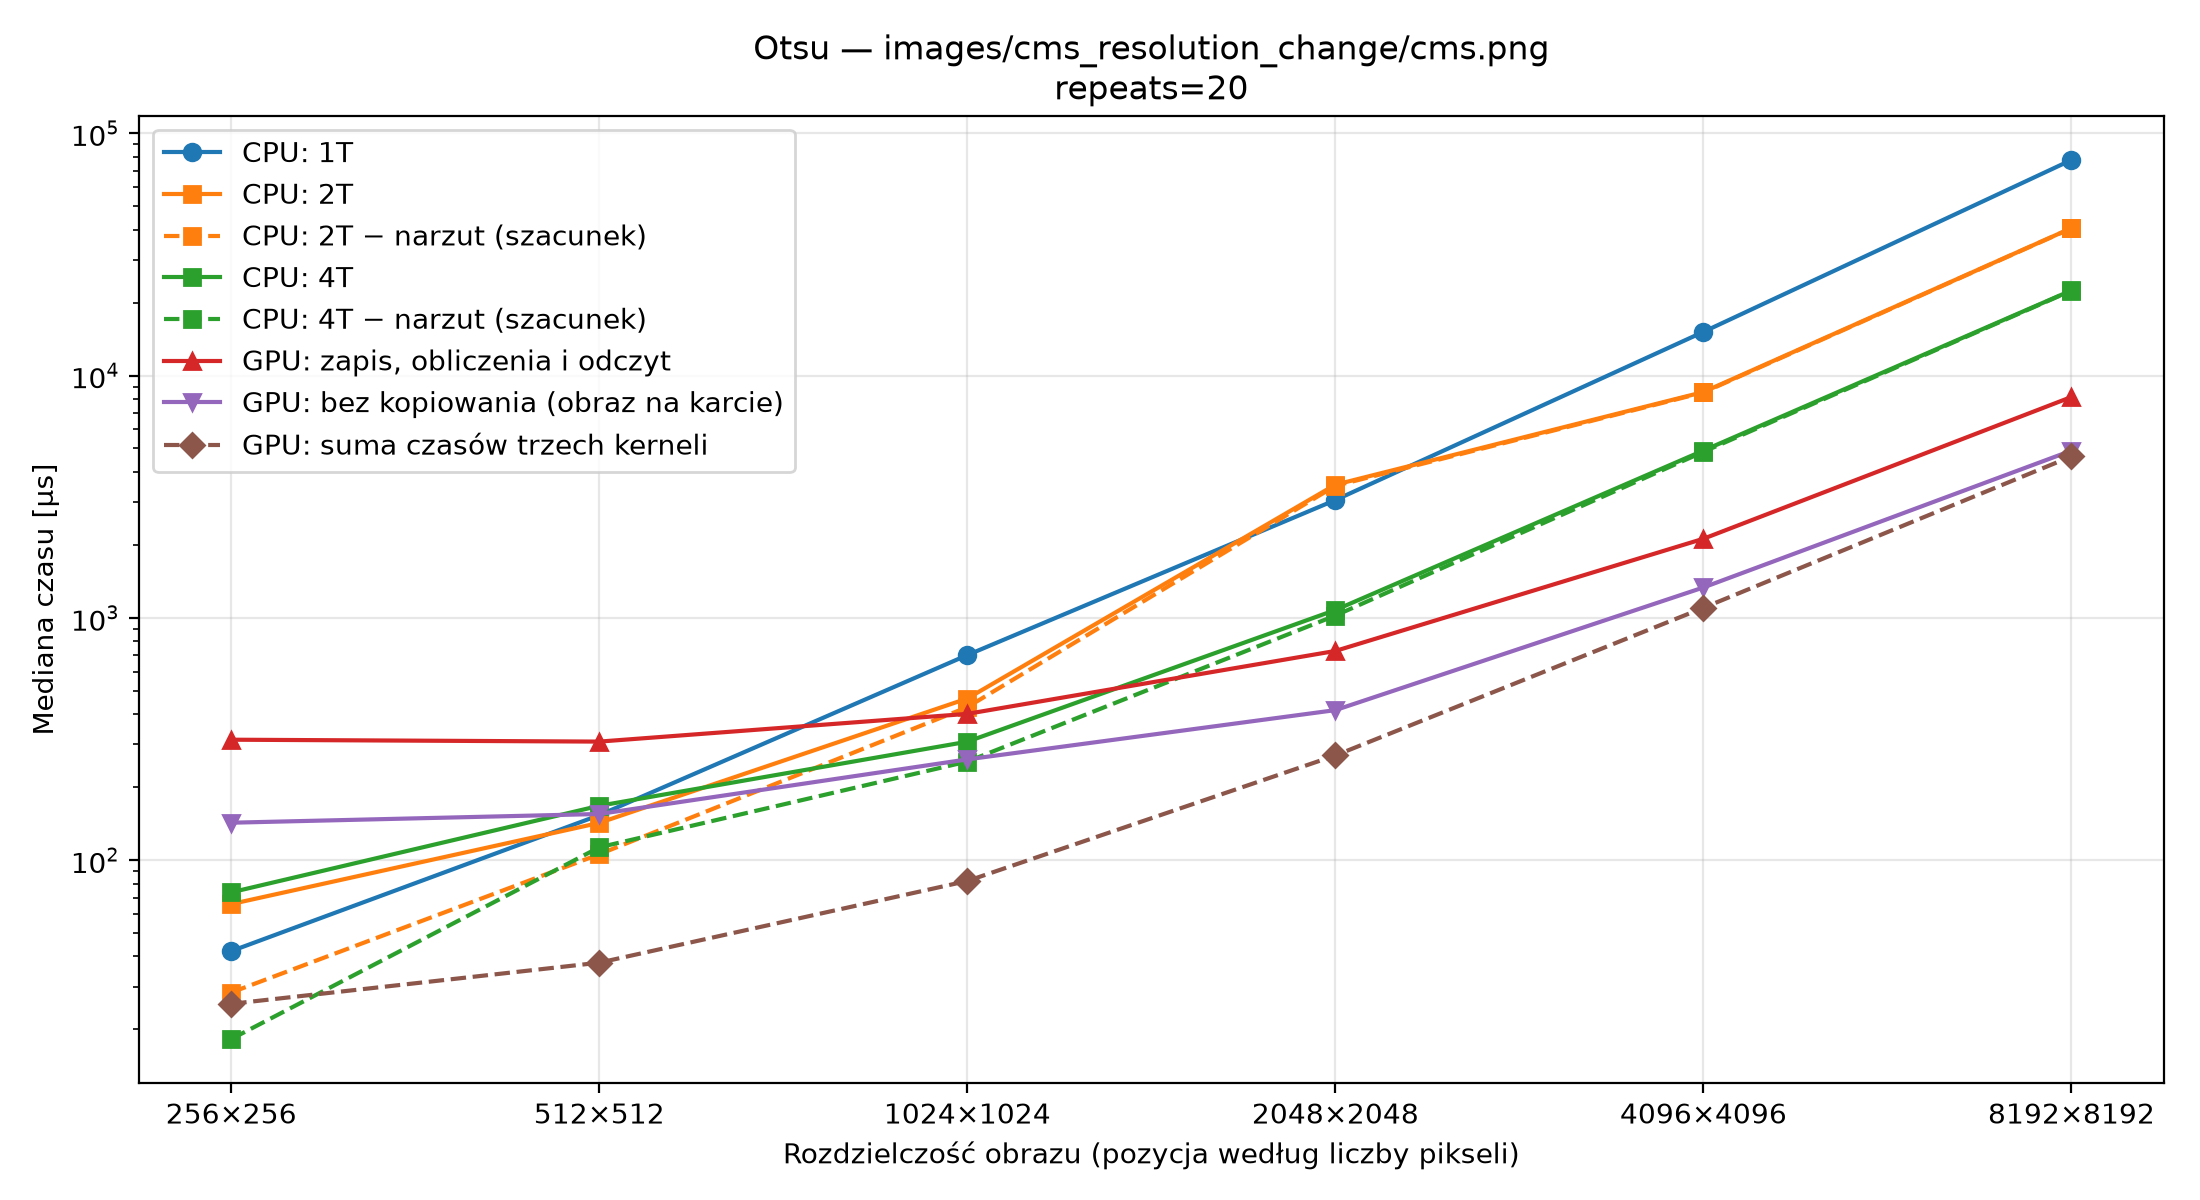
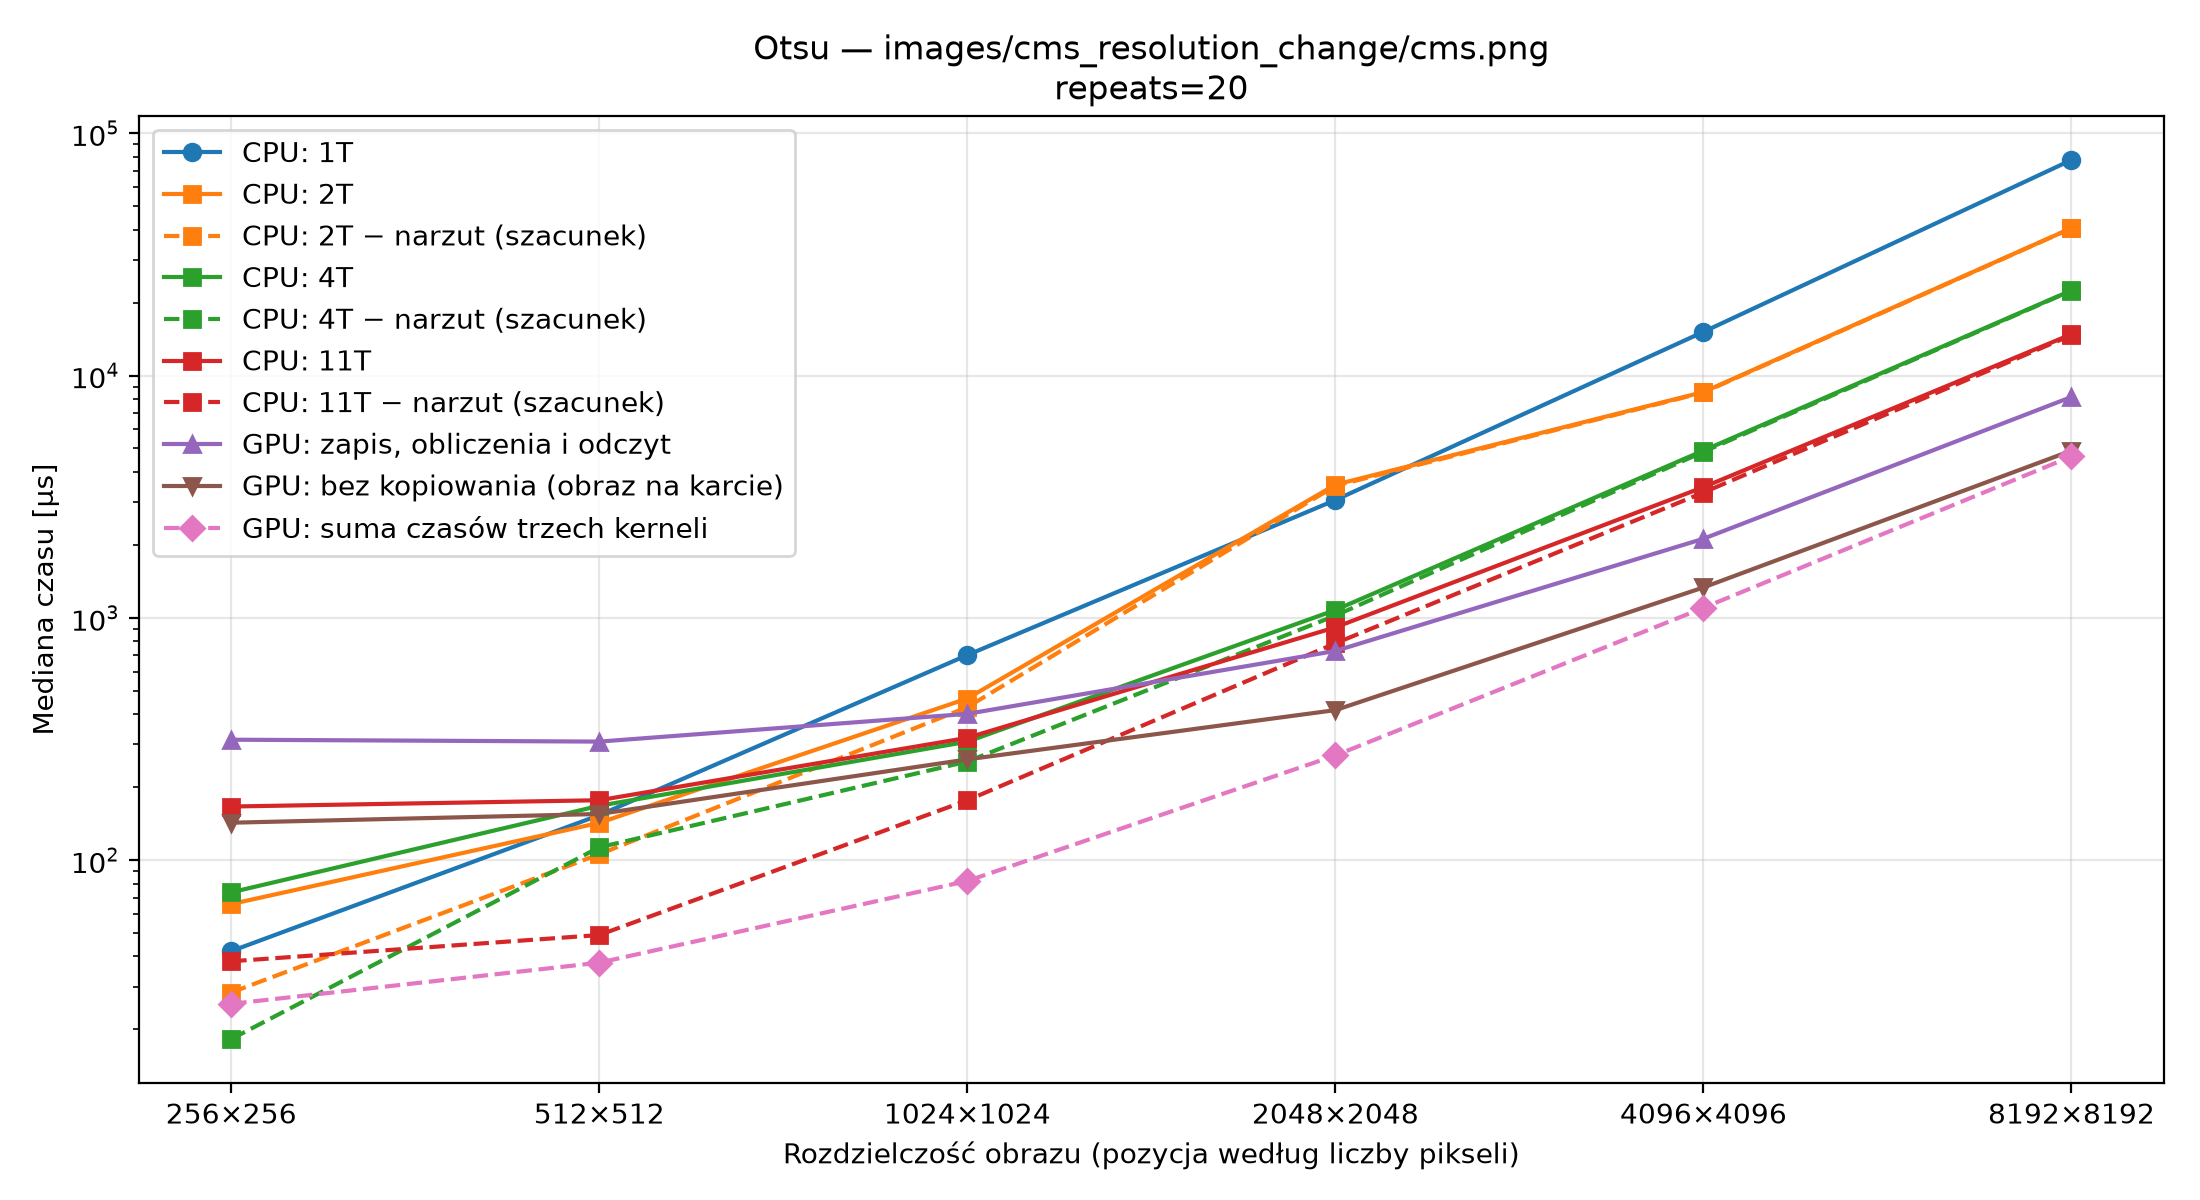
Update results.

diff --git a/helpers/cpu_gpu_summary.py b/helpers/cpu_gpu_summary.py
@@ -1,0 +1,60 @@
+import argparse
+from pathlib import Path
+
+import matplotlib.pyplot as plt
+import pandas as pd
+
+# how many times the GPU (with copying) is faster than the CPU on all 11 cores, for the largest image of every algorithm
+project = Path(__file__).resolve().parents[1]
+parser = argparse.ArgumentParser(description="Bar chart: CPU on all cores divided by GPU total time.")
+parser.add_argument("--output", type=Path, default=project / "results/cpu_gpu_summary.png")
+parser.add_argument("--threads", type=int, default=11)
+args = parser.parse_args()
+
+series = [
+    ("Progowanie", "threshold", {}),
+    ("Korekcja dystorsji", "distortion", {"k1": 0.15, "k2": 0.0}),
+    ("Otsu", "otsu", {}),
+    ("Konwolucja 3×3", "convolution", {"filter": "box_blur"}),
+    ("Bernsen (okno 15×15)", "bernsen", {}),
+    ("Filtr medianowy 3×3", "median_filter", {"sort": "standard"}),
+]
+names, ratios = [], []
+for name, file, filters in series:
+    data = pd.read_csv(project / f"results/{file}_scaling.csv")
+    data = data[data["threads"] == args.threads]
+    for column, value in filters.items():
+        data = data[data[column] == value]
+    largest = data.loc[(data["width"] * data["height"]).idxmax()]
+    names.append(f"{name}\n{largest['width']}×{largest['height']}")
+    ratios.append(largest["cpu_nt_us"] / largest["gpu_total_us"])
+
+pg_blue, pg_red, ink, muted = "#003865", "#C10A27", "#1f1f1f", "#6b6b6b"
+figure, axis = plt.subplots(figsize=(8, 4.6))
+colors = [pg_blue if ratio >= 1 else pg_red for ratio in ratios]
+positions = range(len(names))
+# bars start at 1 (a draw), so the CPU-faster case points left and the GPU-faster cases point right
+axis.barh(positions, [ratio - 1 for ratio in ratios], left=1, color=colors, height=0.62)
+axis.axvline(1, color=ink, linewidth=1)
+for position, ratio in zip(positions, ratios):
+    text = f"{ratio:.1f}×".replace(".", ",")
+    if ratio < 1:  # the bar is short, so the label goes on the empty side of the draw line
+        axis.text(1.04, position, f"CPU {1 / ratio:.0f}× szybsze", va="center", ha="left", color=pg_red, fontsize=11, fontweight="bold")
+    else:
+        axis.text(ratio * 1.04, position, text, va="center", ha="left", color=ink, fontsize=11, fontweight="bold")
+axis.set_xscale("log")
+axis.set_xticks([0.5, 1, 2, 5, 10, 20], ["0,5×", "1×", "2×", "5×", "10×", "20×"])
+axis.set_xlim(0.4, 30)
+axis.minorticks_off()
+axis.set_yticks(list(positions), names, fontsize=10)
+axis.invert_yaxis()
+axis.set_xlabel(f"Ile razy GPU (z kopiowaniem danych) jest szybsze od CPU na {args.threads} rdzeniach", color=muted)
+axis.text(1.04, -0.75, "GPU szybsze →", color=pg_blue, fontsize=10, ha="left")
+axis.text(0.96, -0.75, "← CPU szybsze", color=pg_red, fontsize=10, ha="right")
+for side in ("top", "right", "left"):
+    axis.spines[side].set_visible(False)
+axis.tick_params(axis="y", length=0)
+axis.grid(True, axis="x", alpha=0.25)
+figure.tight_layout()
+figure.savefig(args.output, dpi=200)
+print(f"Zapisano: {args.output}")

diff --git a/helpers/thread_scaling_graphs.py b/helpers/thread_scaling_graphs.py
@@ -1,0 +1,42 @@
+import argparse
+from pathlib import Path
+
+import matplotlib.pyplot as plt
+import pandas as pd
+
+# speedup of the CPU with more and more threads; the GPU is far above this scale, so it is given in the title
+project = Path(__file__).resolve().parents[1]
+parser = argparse.ArgumentParser(description="Plot CPU speedup against the number of threads.")
+parser.add_argument("--input", type=Path, default=project / "results/thread_scaling")
+parser.add_argument("--performance-cores", type=int, default=5)
+parser.add_argument("--cores", type=int, default=11, help="all physical CPU cores")
+args = parser.parse_args()
+
+titles = {"bernsen": "Bernsen (radius = 7), CMS 2048×2048", "median_filter": "Filtr medianowy 3×3, 3543×2362"}
+files = [path for path in sorted(args.input.glob("*.csv")) if path.stem in titles]
+figure, axes = plt.subplots(1, len(files), figsize=(6.5 * len(files), 5), squeeze=False)
+
+for axis, path in zip(axes[0], files):
+    data = pd.read_csv(path).sort_values("threads").drop_duplicates("threads", keep="last")
+    cpu1 = data["cpu_1t_us"].median()  # every run measures one thread again, the median of them is the reference
+    threads = [1, *data["threads"]]
+    speedup = [1.0, *(cpu1 / data["cpu_nt_us"])]
+    ideal = [min(count, args.cores) for count in threads]
+    axis.plot(threads, ideal, ":", color="#52514e", linewidth=1.5, label="idealne przyspieszenie (liczba rdzeni)")
+    axis.plot(threads, speedup, "o-", color="#2a78d6", linewidth=2, markersize=7, label="CPU: zmierzone przyspieszenie")
+    axis.axvspan(0.5, args.performance_cores + 0.5, color="#2a78d6", alpha=0.07, label=f"{args.performance_cores} rdzeni wydajnych")
+    axis.axvline(args.cores, color="#52514e", linestyle="--", linewidth=1, label=f"wszystkie {args.cores} rdzeni")
+    gpu = cpu1 / data["gpu_total_us"].median()
+    axis.set_title(f"{titles[path.stem]}\nGPU z kopiowaniem: {gpu:.0f}× szybciej niż 1 wątek")
+    axis.set_xticks(threads)
+    axis.set_xlim(0.5, max(threads) + 0.5)
+    axis.set_ylim(0, args.cores + 1)
+    axis.set_xlabel("Liczba wątków CPU")
+    axis.set_ylabel("Przyspieszenie względem 1 wątku CPU")
+    axis.grid(True, alpha=0.3)
+    axis.legend(loc="lower right")
+
+figure.tight_layout()
+output = args.input / "thread_scaling.png"
+figure.savefig(output, dpi=200)
+print(f"Zapisano: {output}")

diff --git a/helpers/benchmark_graphs.py b/helpers/benchmark_graphs.py
@@ -47,15 +47,15 @@ def plot_benchmarks(default_file, title, parameters=(), numeric_parameters=(),
         baseline = group.drop_duplicates(["width", "height"], keep="first")
         fig, ax = plt.subplots(figsize=(11, 6))
         ax.plot(baseline["pixels"], baseline["cpu_1t_us"], "o-", label="CPU: 1T")
-        nonpositive_corrected = False
         for threads, timings in group.groupby("threads"):
             if threads > 1:
                 line, = ax.plot(timings["pixels"], timings["cpu_nt_us"], "s-", label=f"CPU: {threads}T")
                 if overhead_columns:
-                    corrected = timings["cpu_nt_corrected_us"]
+                    # for small images the overhead overlaps with the work and the estimate drops to zero or below,
+                    # such points say nothing about the computation, so they are left out instead of bending the axis
+                    corrected = timings["cpu_nt_corrected_us"].where(timings["cpu_nt_corrected_us"] > 0)
                     ax.plot(timings["pixels"], corrected, "s--", color=line.get_color(),
                             label=f"CPU: {threads}T − narzut (szacunek)")
-                    nonpositive_corrected |= (corrected <= 0).any()
         ax.plot(baseline["pixels"], baseline["gpu_total_us"], "^-",
                 label="GPU: zapis, obliczenia i odczyt")
         if no_copy_columns:
@@ -65,10 +65,7 @@ def plot_benchmarks(default_file, title, parameters=(), numeric_parameters=(),
         labels = baseline.groupby("pixels", sort=True).apply(
             lambda rows: " / ".join(f"{w}×{h}" for w, h in zip(rows["width"], rows["height"])))
         ax.set_xscale("log", base=2)
-        if nonpositive_corrected:
-            ax.set_yscale("symlog", linthresh=1)
-        else:
-            ax.set_yscale("log")
+        ax.set_yscale("log")
         ax.set_xticks(labels.index, labels)
         ax.set_xlabel("Rozdzielczość obrazu (pozycja według liczby pikseli)")
         ax.set_ylabel("Mediana czasu [µs]")
